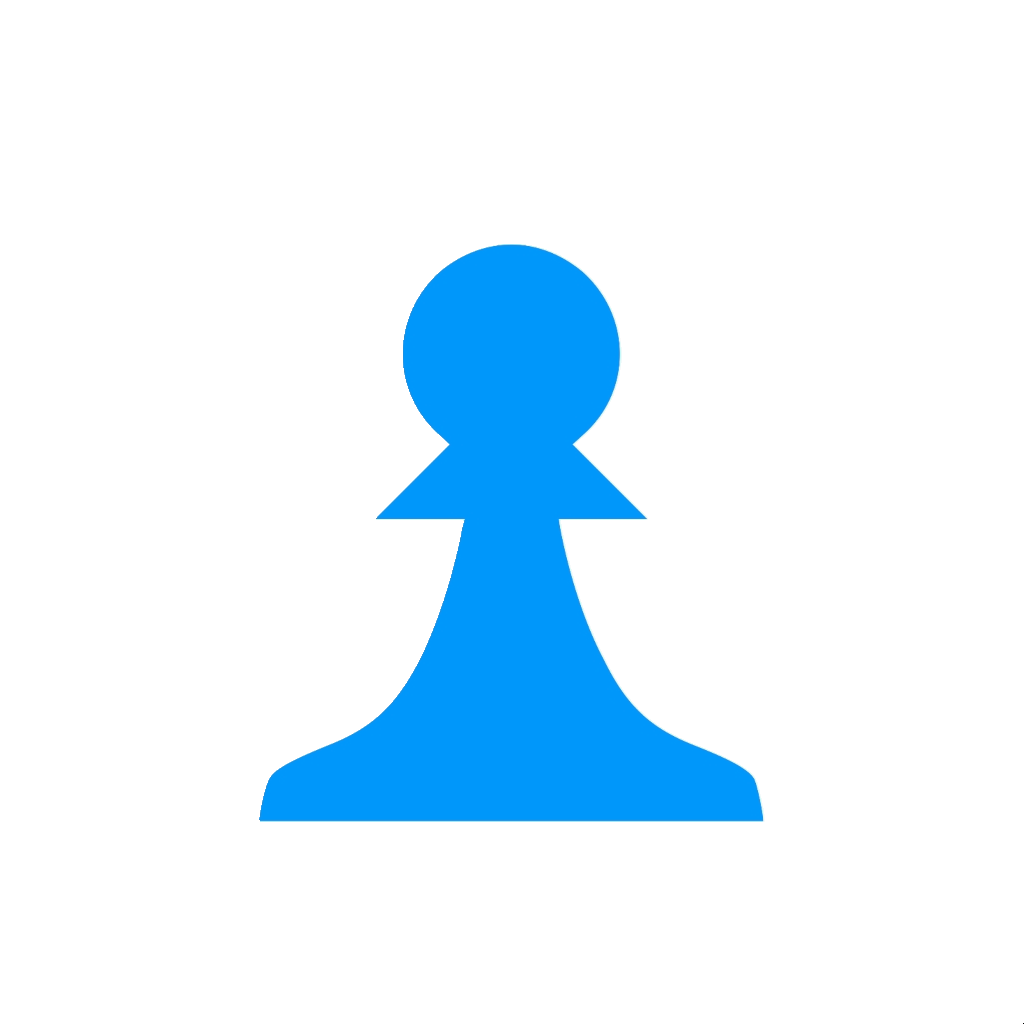
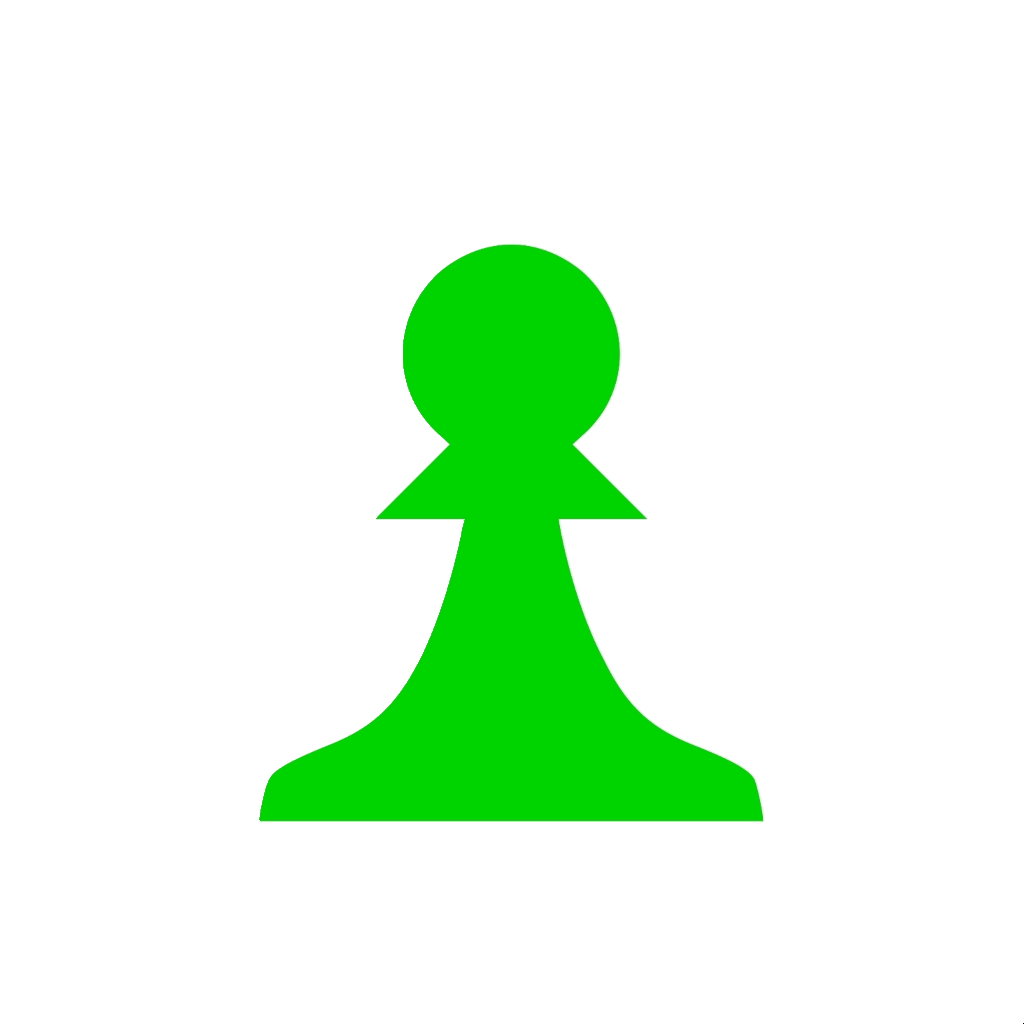
exploradores na ordem certa

Changed region(s): [[0.25, 0.2188, 0.75, 0.8125]]

diff --git a/1iteracao-workspace/1iteracao/src/view/TabuleiroView.java b/1iteracao-workspace/1iteracao/src/view/TabuleiroView.java
@@ -31,7 +31,7 @@ class TabuleiroView extends JPanel implements MouseListener{
 	private TabuleiroView tabuleiro = this;
 	private Map<String, Image> imgPecas = new HashMap<String, Image>();
 	private Map<Integer, Image> imgDados = new HashMap<Integer, Image>();
-	private static final String[] CORES = {"Verde", "Laranja", "Azul", "Preto", "Vermelho", "Branco"};
+	private static final String[] CORES = {"Preto", "Azul", "Verde", "Laranja", "Vermelho", "Branco"};
 	private static final int[] DADINHOS = {1, 2, 3, 4, 5, 6};
 	private int xOffSet = 647;
 	private int yOffSet = 650;

diff --git a/1iteracao-workspace/1iteracao/src/model/ModoJogo.java b/1iteracao-workspace/1iteracao/src/model/ModoJogo.java
@@ -7,7 +7,7 @@ import java.util.Set;
 
 class ModoJogo {
 	private static ModoJogo modoJogoInstance;
-	public static final String[] CORES = {"Verde", "Laranja", "Azul", "Preto", "Vermelho", "Branco"};
+	public static final String[] CORES = {"Preto", "Azul", "Verde", "Laranja", "Vermelho", "Branco"};
 	public static int NUM_JOGADORES;
 	private int gameMode = 0;
 	private String nomes[] = new String[4];
